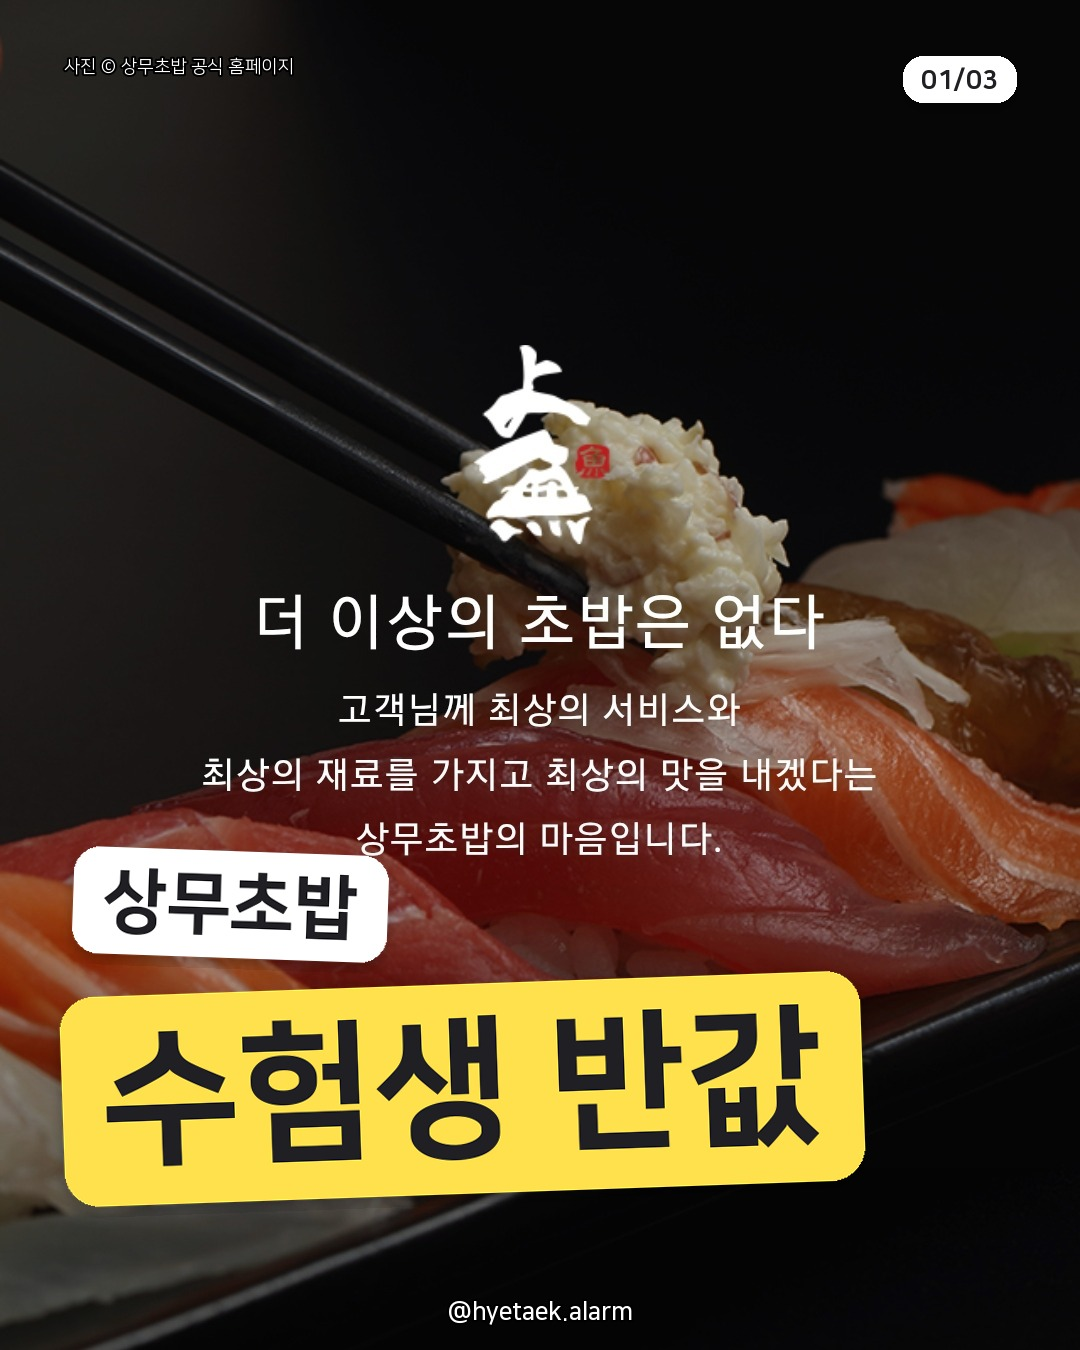
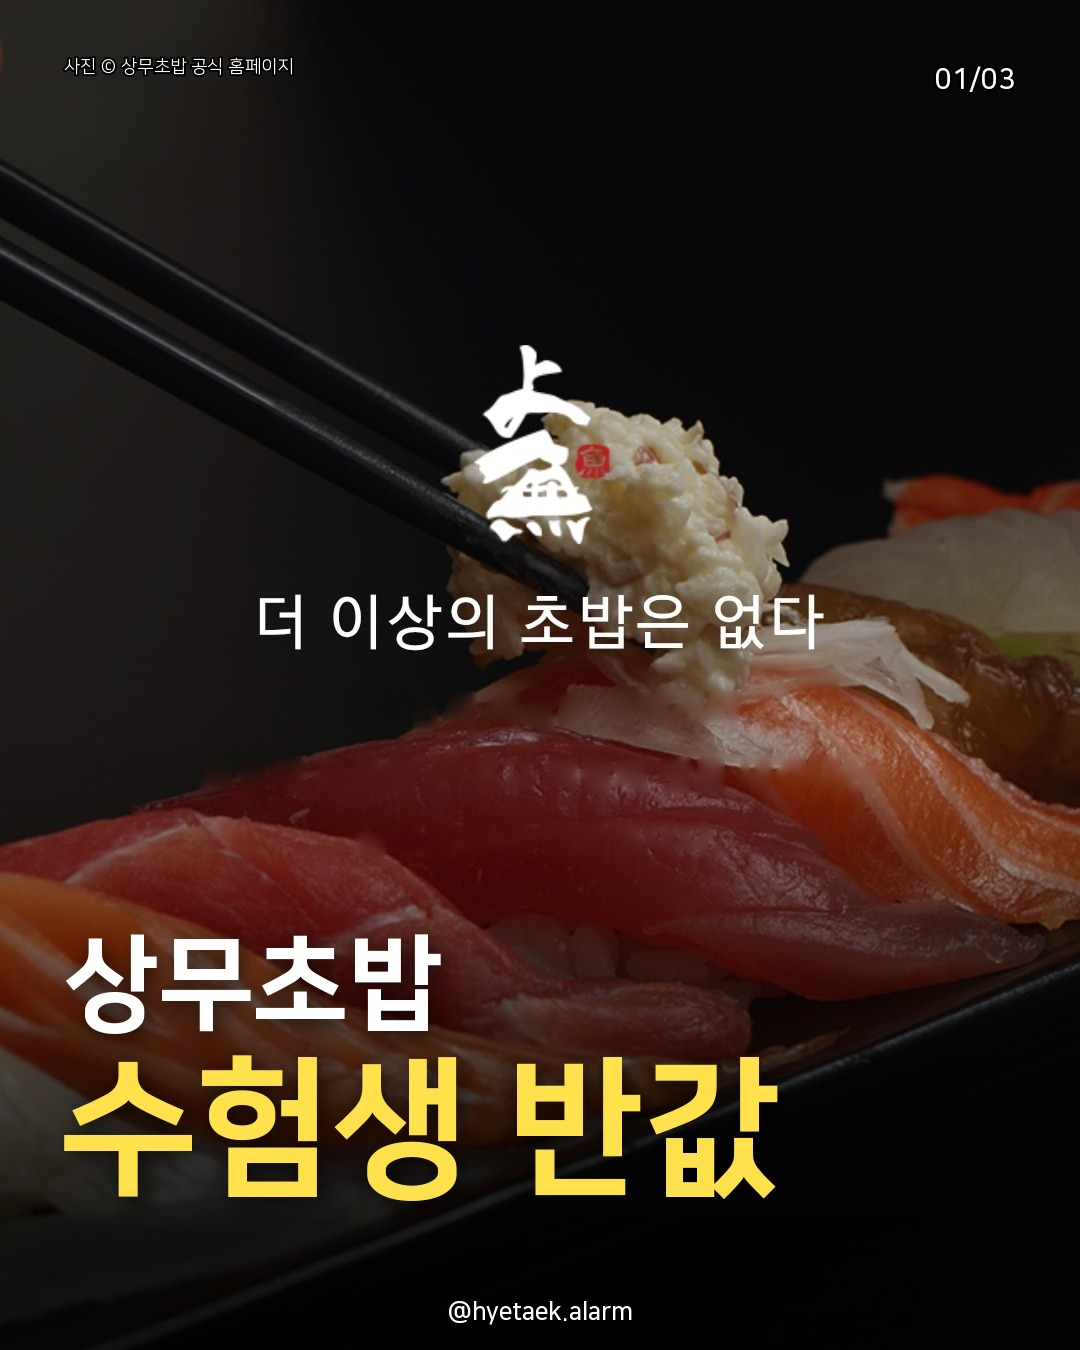
혜택알람 표지: 스티커 대신 굵은 고딕 타이포 + 상무초밥 사진 속 작은 소개 문구 제거
Claude-Session: https://claude.ai/code/session_013eU9upJ36tdqKzB4UjrVYH

Changed region(s): [[0.0, 0.4978, 1.0, 1.0], [0.825, 0.0311, 0.9472, 0.0933]]

diff --git a/screendaily/cards.py b/screendaily/cards.py
@@ -1051,29 +1051,37 @@ def _watermark(canvas: Image.Image, config: dict, color=(255, 255, 255, 170), sh
     d.text((W / 2, H - 38), config.get("handle", ""), font=font(B, 24), fill=color, anchor="mm", **kw)
 
 
+def _shadow_text(canvas: Image.Image, xy, text: str, f, fill, blur: int = 10, alpha: int = 170):
+    """그림자 깔린 글자 (사진 위 가독성)."""
+    sh = Image.new("RGBA", canvas.size, (0, 0, 0, 0))
+    ImageDraw.Draw(sh).text((xy[0] + 3, xy[1] + 5), text, font=f, fill=(0, 0, 0, alpha))
+    canvas.alpha_composite(sh.filter(ImageFilter.GaussianBlur(blur)))
+    ImageDraw.Draw(canvas).text(xy, text, font=f, fill=fill)
+
+
 def render_photo_cover(post: Post, config: dict) -> Image.Image:
-    """01 표지 (후킹용, 밝은 톤): 사진은 밝게 그대로, 아래에 브랜드 스티커(흰색) + 혜택 스티커(레몬, 가장 크게)."""
+    """01 표지 (후킹용): 사진 + 아래쪽 굵은 고딕 두 줄. 첫 줄 브랜드(흰색), 둘째 줄 혜택(강조색, 가장 크게)."""
     c = _light(config)
     img = _post_photo(post)
     im = open_img(post.asset(img)) if img else None
     canvas = cover_crop(im, (W, H), (0.5, 0.4)).convert("RGBA") if im else splash_bg(c["sp"], 0)
-    canvas.alpha_composite(vgrad((W, H), (0, 0, 0), H * 0.62, H, 0, 90))
+    canvas.alpha_composite(vgrad((W, H), (0, 0, 0), H * 0.5, H, 0, 215))
     d = ImageDraw.Draw(canvas)
     total = 1 + len(post.items) + (1 if post.outro else 0)
-    tag = _sticker(f"{1:02d}/{total:02d}", font(EB, 26), (255, 255, 255), c["ink"], pad=(18, 8), radius=20)
-    canvas.alpha_composite(tag, (W - M - tag.width + 12, 44))
+    d.text((W - M, 64), f"{1:02d}/{total:02d}", font=font(B, 28), fill=(255, 255, 255, 210), anchor="ra",
+           stroke_width=2, stroke_fill=(0, 0, 0, 80))
     lines = [t for t in post.title.split("\n") if t.strip()][:2]
     brand_line, benefit = (lines[0], lines[1]) if len(lines) > 1 else ("", lines[0] if lines else "")
     bf = font(EB, 150)
-    while _tw(bf, benefit) + 80 > W - 2 * M and bf.size > 70:
+    while _tw(bf, benefit) > W - 2 * M and bf.size > 70:
         bf = font(EB, bf.size - 4)
-    big = _sticker(benefit, bf, c["hl"], c["ink"], angle=2, pad=(40, 16), radius=34)
-    by = H - 130 - big.height
-    canvas.alpha_composite(big, (M - 18, by))
+    nf = font(EB, 104)
+    while _tw(nf, brand_line) > W - 2 * M and nf.size > 56:
+        nf = font(EB, nf.size - 4)
+    y = H - 120 - line_h(bf)
+    _shadow_text(canvas, (M - 4, y), benefit, bf, c["hl"])
     if brand_line:
-        nf = font(EB, 70)
-        small = _sticker(brand_line, nf, (255, 255, 255), c["ink"], angle=-2, pad=(30, 12), radius=26)
-        canvas.alpha_composite(small, (M - 6, by - small.height + 18))
+        _shadow_text(canvas, (M, y - line_h(nf) + 6), brand_line, nf, (255, 255, 255))
     credit = post.cover_credit or _post_credit(post)
     if credit:  # 사진 출처·라이선스 표기 (왼쪽 위, 작게)
         ImageDraw.Draw(canvas).text((M, 66), credit, font=font(R, 18), fill=(255, 255, 255, 200), anchor="lm",

diff --git a/CLAUDE.md b/CLAUDE.md
@@ -22,6 +22,6 @@
 
 ## 그 밖에
 - 혜택·할인 정보 게시물(통신사·카드·브랜드 이벤트·쿠폰 등 모든 혜택)은 스크린데일리가 아닌 **별도 채널 '혜택알람'(@hyetaek.alarm)** 이다. `channel: deals` 를 꼭 적는다 (이름·아이디·해시태그·마지막 장이 그 채널 것으로 바뀜, 업로드 계정도 다름).
-- 혜택알람은 **혜택 하나당 캐러셀 3장 고정**: 01 사진 표지(`cover_style: photo`, 후킹용: title 첫 줄 브랜드·둘째 줄 혜택 핵심만, 혜택 줄은 짧게 예: '수험생 반값') → 02 혜택 받는 법(`type: steps`, STEP 3개 + `---` 아래 '자세한 내용은 ○○ 홈페이지 참조' 한 줄. 기간·조건·출처는 caption 에) → 03 고정 팔로우 카드. 디자인은 밝고 젊은 톤(오렌지·레몬·크림, `config.yml` 채널 `alarm:`). 모든 장 하단 가운데에 채널 주소 워터마크(퍼가기 방지). 공식 확인 안 된 조건은 카드에 쓰지 않는다. 다른 할인 계정의 디자인·문구·스티커를 그대로 따라 하지 않는다. 예시 `drafts/deal_sangmu_1119/`
+- 혜택알람은 **혜택 하나당 캐러셀 3장 고정**: 01 사진 표지(`cover_style: photo`, 굵은 고딕 타이포만(스티커·상자 없음), 후킹용: title 첫 줄 브랜드·둘째 줄 혜택 핵심만, 혜택 줄은 짧게 예: '수험생 반값') → 02 혜택 받는 법(`type: steps`, STEP 3개 + `---` 아래 '자세한 내용은 ○○ 홈페이지 참조' 한 줄. 기간·조건·출처는 caption 에) → 03 고정 팔로우 카드. 디자인은 밝고 젊은 톤(오렌지·레몬·크림, `config.yml` 채널 `alarm:`). 모든 장 하단 가운데에 채널 주소 워터마크(퍼가기 방지). 공식 확인 안 된 조건은 카드에 쓰지 않는다. 다른 할인 계정의 디자인·문구·스티커를 그대로 따라 하지 않는다. 예시 `drafts/deal_sangmu_1119/`
 - 초안·시안은 `drafts/` 에 `draft: true` 로 만든다. `queue/` 에 넣으면 예약 시간에 자동 업로드된다.
 - 자동 업로드는 main 브랜치의 `queue/` 만 본다.
